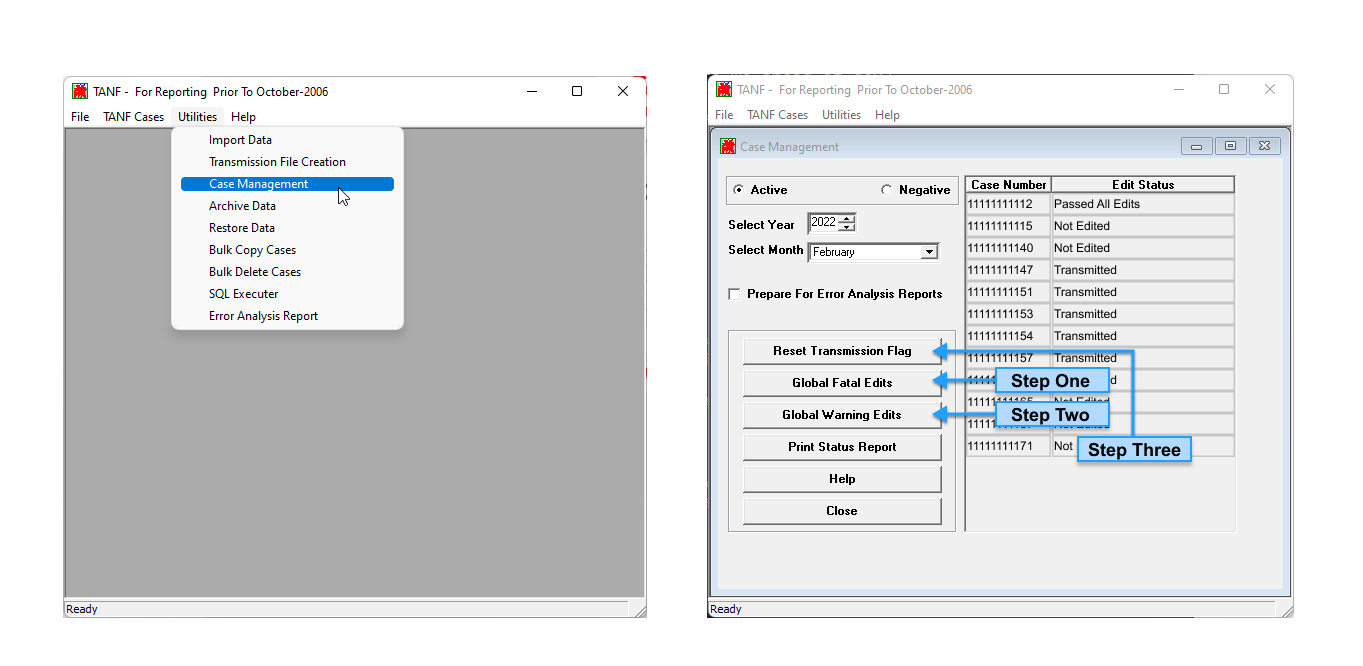
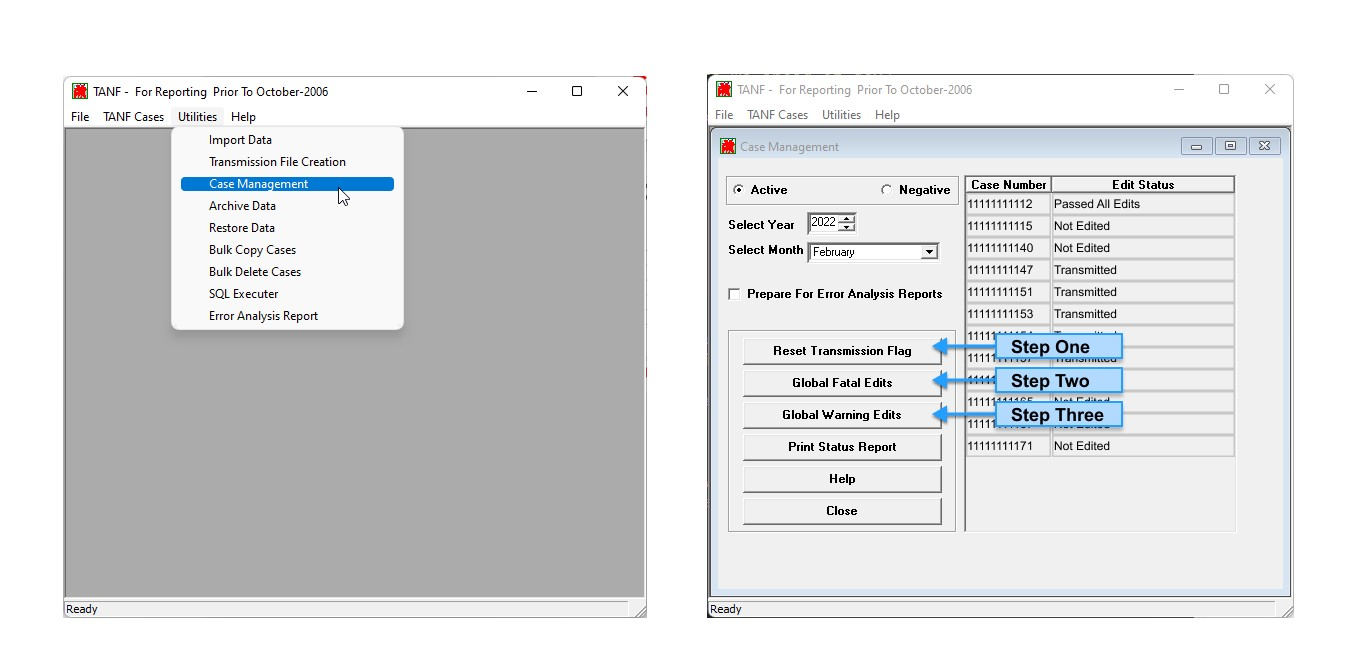
All changes for May KC

diff --git a/knowledge-center/faq.html b/knowledge-center/faq.html
@@ -264,8 +264,38 @@
         class="usa-layout-docs__main desktop:grid-col-9 usa-prose usa-layout-docs"
         id="main-content">
         <h1>Frequently Asked Questions</h1>
+                <div style="min-height: 22px;"></div>
+
+        <p>Jump to:</p>
+                        <div style="min-height: 22px;"></div>
+
+        <p><strong>Accessing TDP</strong></p>
+        <a href="#Are there restrictions governing where TDP can be used?">Are there restrictions governing where TDP can be used?</a><br>
+        <a href="#Can multiple users on my team request access to TDP?">Can multiple users on my team request access to TDP?</a><br>
+        <a href="#Can I access TDP with a Login.gov account that I use for other services?">Can I access TDP with a Login.gov account that I use for other services?</a><br>
+                <a href="#What should I do if a member of my team should no longer have access to TDP data?">What should I do if a member of my team should no longer have access to TDP data?</a><br>
+
+                                <div style="min-height: 22px;"></div>
+  <p><strong>Submitting in TDP</strong></p>
+        <a href="#Do we need to change the way we prepare our files for submission?">Do we need to change the way we prepare our files for submission?</a><br>
+        <a href="#How much data can I submit per day?">How much data can I submit per day?</a><br>
+        <a href="#Can I submit multiple quarters of data in a single file?">Can I submit multiple quarters of data in a single file?</a><br>
+        <a href="#Does “Closed Cases” mean the same thing as “Negative Cases”?">Does “Closed Cases” mean the same thing as “Negative Cases”?</a><br>
+        <a href="#I’m not familiar with Section 4 (Stratum) data—is it required?">I’m not familiar with Section 4 (Stratum) data—is it required?</a><br>
+                <a href="#When can I expect to receive feedback on my submitted data?">When can I expect to receive feedback on my submitted data?</a><br>
+
+         <div style="min-height: 22px;"></div>
+  <p><strong>Bug Reporting & Feedback</strong></p>
+        <a href="#Where can I report a bug or other issue with TDP?">Where can I report a bug or other issue with TDP?</a><br>
+         <div style="min-height: 22px;"></div>
 
 
+
+ <hr style="border: none;
+    height: 1px;
+    background: #000;
+    margin-top: 32px;
+    background: repeating-linear-gradient(90deg,#000,#000 6px,transparent 6px,transparent 12px);">
 
 
         <div style="min-height: 22px;"></div>
@@ -277,19 +307,24 @@
 
 
 
-        <h3 style="font-size: 1.34rem; line height: 1.2; font-weight: 700;">Are there restrictions governing where TDP can be used?</h3>
+        <h3 id="Are there restrictions governing where TDP can be used?" style="font-size: 1.34rem; line height: 1.2; font-weight: 700;">Are there restrictions governing where TDP can be used?</h3>
         <P>The TANF Data Portal can be used from any computer in the US or US Territories. There is no need to get any particular computer or IP Address “pre-approved” in order to use TDP.</p>
           <div style="min-height: 22px;"></div>
           <div style="min-height: 22px;"></div>
 
 
-        <h3 style="font-size: 1.34rem; line height: 1.2; font-weight: 700;">Can multiple users on my team request access to TDP?</h3>
+        <h3 id="Can multiple users on my team request access to TDP?" style="font-size: 1.34rem; line height: 1.2; font-weight: 700;">Can multiple users on my team request access to TDP?</h3>
         <P>Yes. We're not limiting the number of users who can request access per TANF program. We recommend that a minimum of two users request access per team to ensure coverage due to leave or unforeseen circumstances.</p>
           <div style="min-height: 22px;"></div>
           <div style="min-height: 22px;"></div>
 
-        <h3 style="font-size: 1.34rem; line height: 1.2; font-weight: 700;">Can I access TDP with a Login.gov account that I use for other services?</h3>
+        <h3 id="Can I access TDP with a Login.gov account that I use for other services?" style="font-size: 1.34rem; line height: 1.2; font-weight: 700;">Can I access TDP with a Login.gov account that I use for other services?</h3>
         <P>Yes, a variety of Federal organizations utilize Login.gov. For example, if you use your Login.gov account to access GrantSolutions for submitting TANF expenditure reports in the On-Line Data Collection (OLDC) system, you may also use it to access TDP. <a href="https://tdp-project-updates.app.cloud.gov/knowledge-center/existing-login.html">Read more about how to use your existing Login.gov account</a>.</p>
+          <div style="min-height: 22px;"></div>
+          <div style="min-height: 22px;"></div>   
+
+          <h3 id="What should I do if a member of my team should no longer have access to TDP data?" style="font-size: 1.34rem; line height: 1.2; font-weight: 700;">What should I do if a member of my team should no longer have access to TDP data?</h3>
+        <P>If a member of your team recently offboarded or no longer has a need to access TDP & TANF data for your program, email us at tanfdata@acf.hhs.gov to request that their TDP account be disabled. Please include their first and last name as well as their email address to help TDP admins quickly identify the correct account.</p>
           <div style="min-height: 22px;"></div>
           <div style="min-height: 22px;"></div>   
 
@@ -309,37 +344,37 @@
         <div style="min-height: 22px;"></div>
 
 
-        <h3 style="font-size: 1.34rem; line height: 1.2; font-weight: 700;">Do we need to change the way we prepare our files for submission?</h3>
+        <h3 id="Do we need to change the way we prepare our files for submission?" style="font-size: 1.34rem; line height: 1.2; font-weight: 700;">Do we need to change the way we prepare our files for submission?</h3>
         <P>Most TANF programs should not need to make changes to the type of file submitted or its format. However, we do require that any programs currently submitting partial data revisions (i.e. data files only containing cases modified or added since the original submission) adjust their process to submit complete data. <a href="complete-resubmissions.html">Read more about how to resubmit complete data</a>.</p>
           <div style="min-height: 22px;"></div>
           <div style="min-height: 22px;"></div>                 
 
 
-        <h3 style="font-size: 1.34rem; line height: 1.2; font-weight: 700;">How much data can I submit per day?</h3>
+        <h3 id="How much data can I submit per day?" style="font-size: 1.34rem; line height: 1.2; font-weight: 700;">How much data can I submit per day?</h3>
         <P>You’ll only be able to submit one quarter’s worth of data at a time, but you’re welcome to submit data for multiple quarters in sequence within the same TDP session. For example, you could submit a TANF data file, followed by an SSP-MOE data file (for TANF programs that operate a separate state program). Or, you could submit a data file for the currently-due quarter, followed by revised data files from previous quarters. <a href="https://reitermb.github.io/Test/knowledge-center/uploading-data.html">Read more about how to submit data in TDP</a>.</p>
 
           <div style="min-height: 22px;"></div>
           <div style="min-height: 22px;"></div>
 
-        <h3 style="font-size: 1.34rem; line height: 1.2; font-weight: 700;">Can I submit multiple quarters of data in a single file?</h3>
+        <h3 id="Can I submit multiple quarters of data in a single file?" style="font-size: 1.34rem; line height: 1.2; font-weight: 700;">Can I submit multiple quarters of data in a single file?</h3>
         <P>No. Each data file can only contain data associated with the specific quarter and fiscal year you've selected to upload to on the TDP Data Files page. </p>
 
           <div style="min-height: 22px;"></div>
           <div style="min-height: 22px;"></div>          
 
-        <h3 style="font-size: 1.34rem; line height: 1.2; font-weight: 700;">Does “Closed Cases” mean the same thing as “Negative Cases”?</h3>
+        <h3 id="Does “Closed Cases” mean the same thing as “Negative Cases”?" style="font-size: 1.34rem; line height: 1.2; font-weight: 700;">Does “Closed Cases” mean the same thing as “Negative Cases”?</h3>
         <P>Yes, “Closed Cases” and “Negative Cases” both refer to Section 2 data. There are no changes to the requirements of the data being submitted for this section.</p>
           <div style="min-height: 22px;"></div>
           <div style="min-height: 22px;"></div>
 
 
-        <h3 style="font-size: 1.34rem; line height: 1.2; font-weight: 700;">I’m not familiar with Section 4 (Stratum) data—is it required?</h3>
+        <h3 id="I’m not familiar with Section 4 (Stratum) data—is it required?" style="font-size: 1.34rem; line height: 1.2; font-weight: 700;">I’m not familiar with Section 4 (Stratum) data—is it required?</h3>
         <P>No. Section 4 is only for TANF or SSP programs that submit data on a sample of their caseload rather than universe data. If you don’t already submit Section 4 through the legacy TANF Data Reporting system, then you don’t need to submit it in TDP either.</p>
           <div style="min-height: 22px;"></div>
           <div style="min-height: 22px;"></div>
 
 
-        <h3 style="font-size: 1.34rem; line height: 1.2; font-weight: 700;">When can I expect to receive feedback on my submitted data?</h3>
+        <h3 id="When can I expect to receive feedback on my submitted data?" style="font-size: 1.34rem; line height: 1.2; font-weight: 700;">When can I expect to receive feedback on my submitted data?</h3>
         <P>In TDP you should receive an email from no-reply@tanfdata.acf.hhs.gov confirming that your data has been submitted shortly after submitting it. After that, you should expect to see the feedback reports you currently receive arrive on their normal schedule.</p>
           <div style="min-height: 22px;"></div>
           <div style="min-height: 22px;"></div>
@@ -357,7 +392,7 @@
                 <div style="min-height: 22px;"></div>
         <div style="min-height: 22px;"></div>
 
-         <h3 style="font-size: 1.34rem; line height: 1.2; font-weight: 700;">Where can I report a bug or other issue with TDP?</h3>
+         <h3 id="Where can I report a bug or other issue with TDP?" style="font-size: 1.34rem; line height: 1.2; font-weight: 700;">Where can I report a bug or other issue with TDP?</h3>
         <P>You can anonymously submit bug reports, feedback, and ideas for making TDP better on the <a href="give-feedback.html">Give Feedback</a> page here on the Knowledge Center. If you’re encountering an issue you need support to resolve or simply prefer relaying your feedback directly, you should also feel free to email us at <a href="mailto:tanfdata@acf.hhs.gov">tanfdata@acf.hhs.gov</a>.</p>
 
         <div style="min-height: 22px;"></div>

diff --git a/knowledge-center/index.html b/knowledge-center/index.html
@@ -322,7 +322,69 @@
 
         </ul>
         <hr style="margin-bottom: 30px;">
+
+ 
+
+
+
         <h2>What's new in TDP</h2>
+
+        <h3 style="margin-top: 32px;">May 19th 2023 (v 3.1)</h3>
+        <!-- <p style="margin-top: 16px;">Version 2.1 and 2.2 are aimed at making it possible to expand our pilot program to more TANF programs across the country by improving TDP's support for data submission and making the system itself more communicative.</p> -->
+
+        <h4 style="margin-top: 16px; color: #595959;">Added:</h4>
+      <ul class="usa-icon-list">
+
+  <li class="usa-icon-list__item" style="margin-top: 16px;">
+    <div class="usa-icon-list__icon text-ink">
+      <img src="../img/added.svg" aria-hidden="true" style="background-color: #d3ffcc; border-radius: 5px; width: 18px; height: 18px; position: relative; top: 2px; margin-right: 5px; margin-left: 5px;"/>
+    </div>
+    <div class="usa-icon-list__content">
+      <h5 class="usa-icon-list__title">
+        Knowledge center video tutorials
+      </h5>
+      <p>
+        The knowledge center now includes video tutorials to help users get set up with a Login.gov account, request access, and submit quarterly TANF data. Head over to the guides on <a href="create-new-login.html">Creating a New Login.gov Account</a>, <a href="existing-login.html">Using an Existing Login.gov Account</a>, and <a href="uploading-data.html">Submitting Data to TDP</a> to take a look!
+      </p>
+    </div>
+  </li>
+  <li class="usa-icon-list__item" style="margin-top: 16px;">
+    <div class="usa-icon-list__icon text-ink">
+      <img src="../img/added.svg" aria-hidden="true" style="background-color: #d3ffcc; border-radius: 5px; width: 18px; height: 18px; position: relative; top: 2px; margin-right: 5px; margin-left: 5px;"/>
+    </div>
+    <div class="usa-icon-list__content">
+      <h5 class="usa-icon-list__title">
+        Enhanced knowledge center FAQs
+      </h5>
+      <p>
+        The knowledge center's <a href="faq.html">FAQ page</a> now includes improved navigation to help you jump right to the question you're interested in and new guidance on how to offboard members of your team from TDP if they no longer need to access TANF data. 
+      </p>
+    </div>
+  </li>
+
+  <h4 style="margin-top: 16px; color: #595959;">Entered Development:</h4>
+      <ul class="usa-icon-list">
+
+  <li class="usa-icon-list__item" style="margin-top: 16px;">
+    <div class="usa-icon-list__icon text-ink">
+      <img src="../img/in-dev.svg" aria-hidden="true" style="background-color: #fff4bd; border-radius: 5px; width: 18px; height: 18px; position: relative; top: 2px; margin-right: 5px; margin-left: 5px;"/>
+    </div>
+    <div class="usa-icon-list__content">
+      <h5 class="usa-icon-list__title">
+        TDP error reporting
+      </h5>
+      <p>
+        You may have noticed a new table column for error reports if you've visited a TDP submission history page recently. Once these reports are ready, they'll serve up near-instant plain-language feedback about your submitted data files and replace the emailed transmission reports you may have received before. While this functionality isn't quite ready for rollout yet, it's one of our primary focuses for the next several months and we'll be sure to keep you updated as it progresses and becomes available to use and benefit from!
+      </p>
+    </div>
+  </li>
+
+   <hr style="border: none;
+    height: 1px;
+    background: #000;
+    margin-top: 32px;
+    background: repeating-linear-gradient(90deg,#000,#000 6px,transparent 6px,transparent 12px);">
+
 
         <h3 style="margin-top: 32px;">February 7th 2023 (v 3.0)</h3>
         <!-- <p style="margin-top: 16px;">Version 2.1 and 2.2 are aimed at making it possible to expand our pilot program to more TANF programs across the country by improving TDP's support for data submission and making the system itself more communicative.</p> -->

diff --git a/knowledge-center/exporting-complete-data-using-ftanf.html b/knowledge-center/exporting-complete-data-using-ftanf.html
@@ -319,8 +319,8 @@
               <li>Click the “Global Warning Edits” button to check all records for fatal errors. At the end of this step, all cases for the specified month should have an Edit Status of “Passed all edits”.</li>
               </ul>
               <p>These steps should be repeated for each month in the quarterly Section 1 or Section 2 file.</p><br>
-              <a href="../img/complete-data/Step2.jpg" data-lity data-lity-desc="fTANF.exe opened to Utilities > Case Management with Global Fatal Edits, Global Warning Edits, and Reset Transmission Flag annotated as steps 1, 2, and 3.">
-              <img src="../img/complete-data/Step2.jpg" alt="fTANF.exe opened to Utilities > Case Management with Global Fatal Edits, Global Warning Edits, and Reset Transmission Flag annotated as steps 1, 2, and 3.">
+              <a href="../img/complete-data/Step2.jpg" data-lity data-lity-desc="fTANF.exe opened to Utilities > Case Management with Reset Transmission Flag, Global Fatal Edits, and Global Warning Edits, and  annotated as steps 1, 2, and 3.">
+              <img src="../img/complete-data/Step2.jpg" alt="fTANF.exe opened to Utilities > Case Management with Reset Transmission Flag, Global Fatal Edits, and Global Warning Edits, and  annotated as steps 1, 2, and 3.">
                 </a>
 
               <a href="../img/complete-data/Step2-2.jpg"  data-lity data-lity-desc="Cases in fTANF Case Management with the Edit Status of 'Not Edited' or 'Transmitted' will not be included when a new transmission file is created. All Cases that have the Edit Status of 'Passed All Edits' will be included when a new transmission file is created.">
